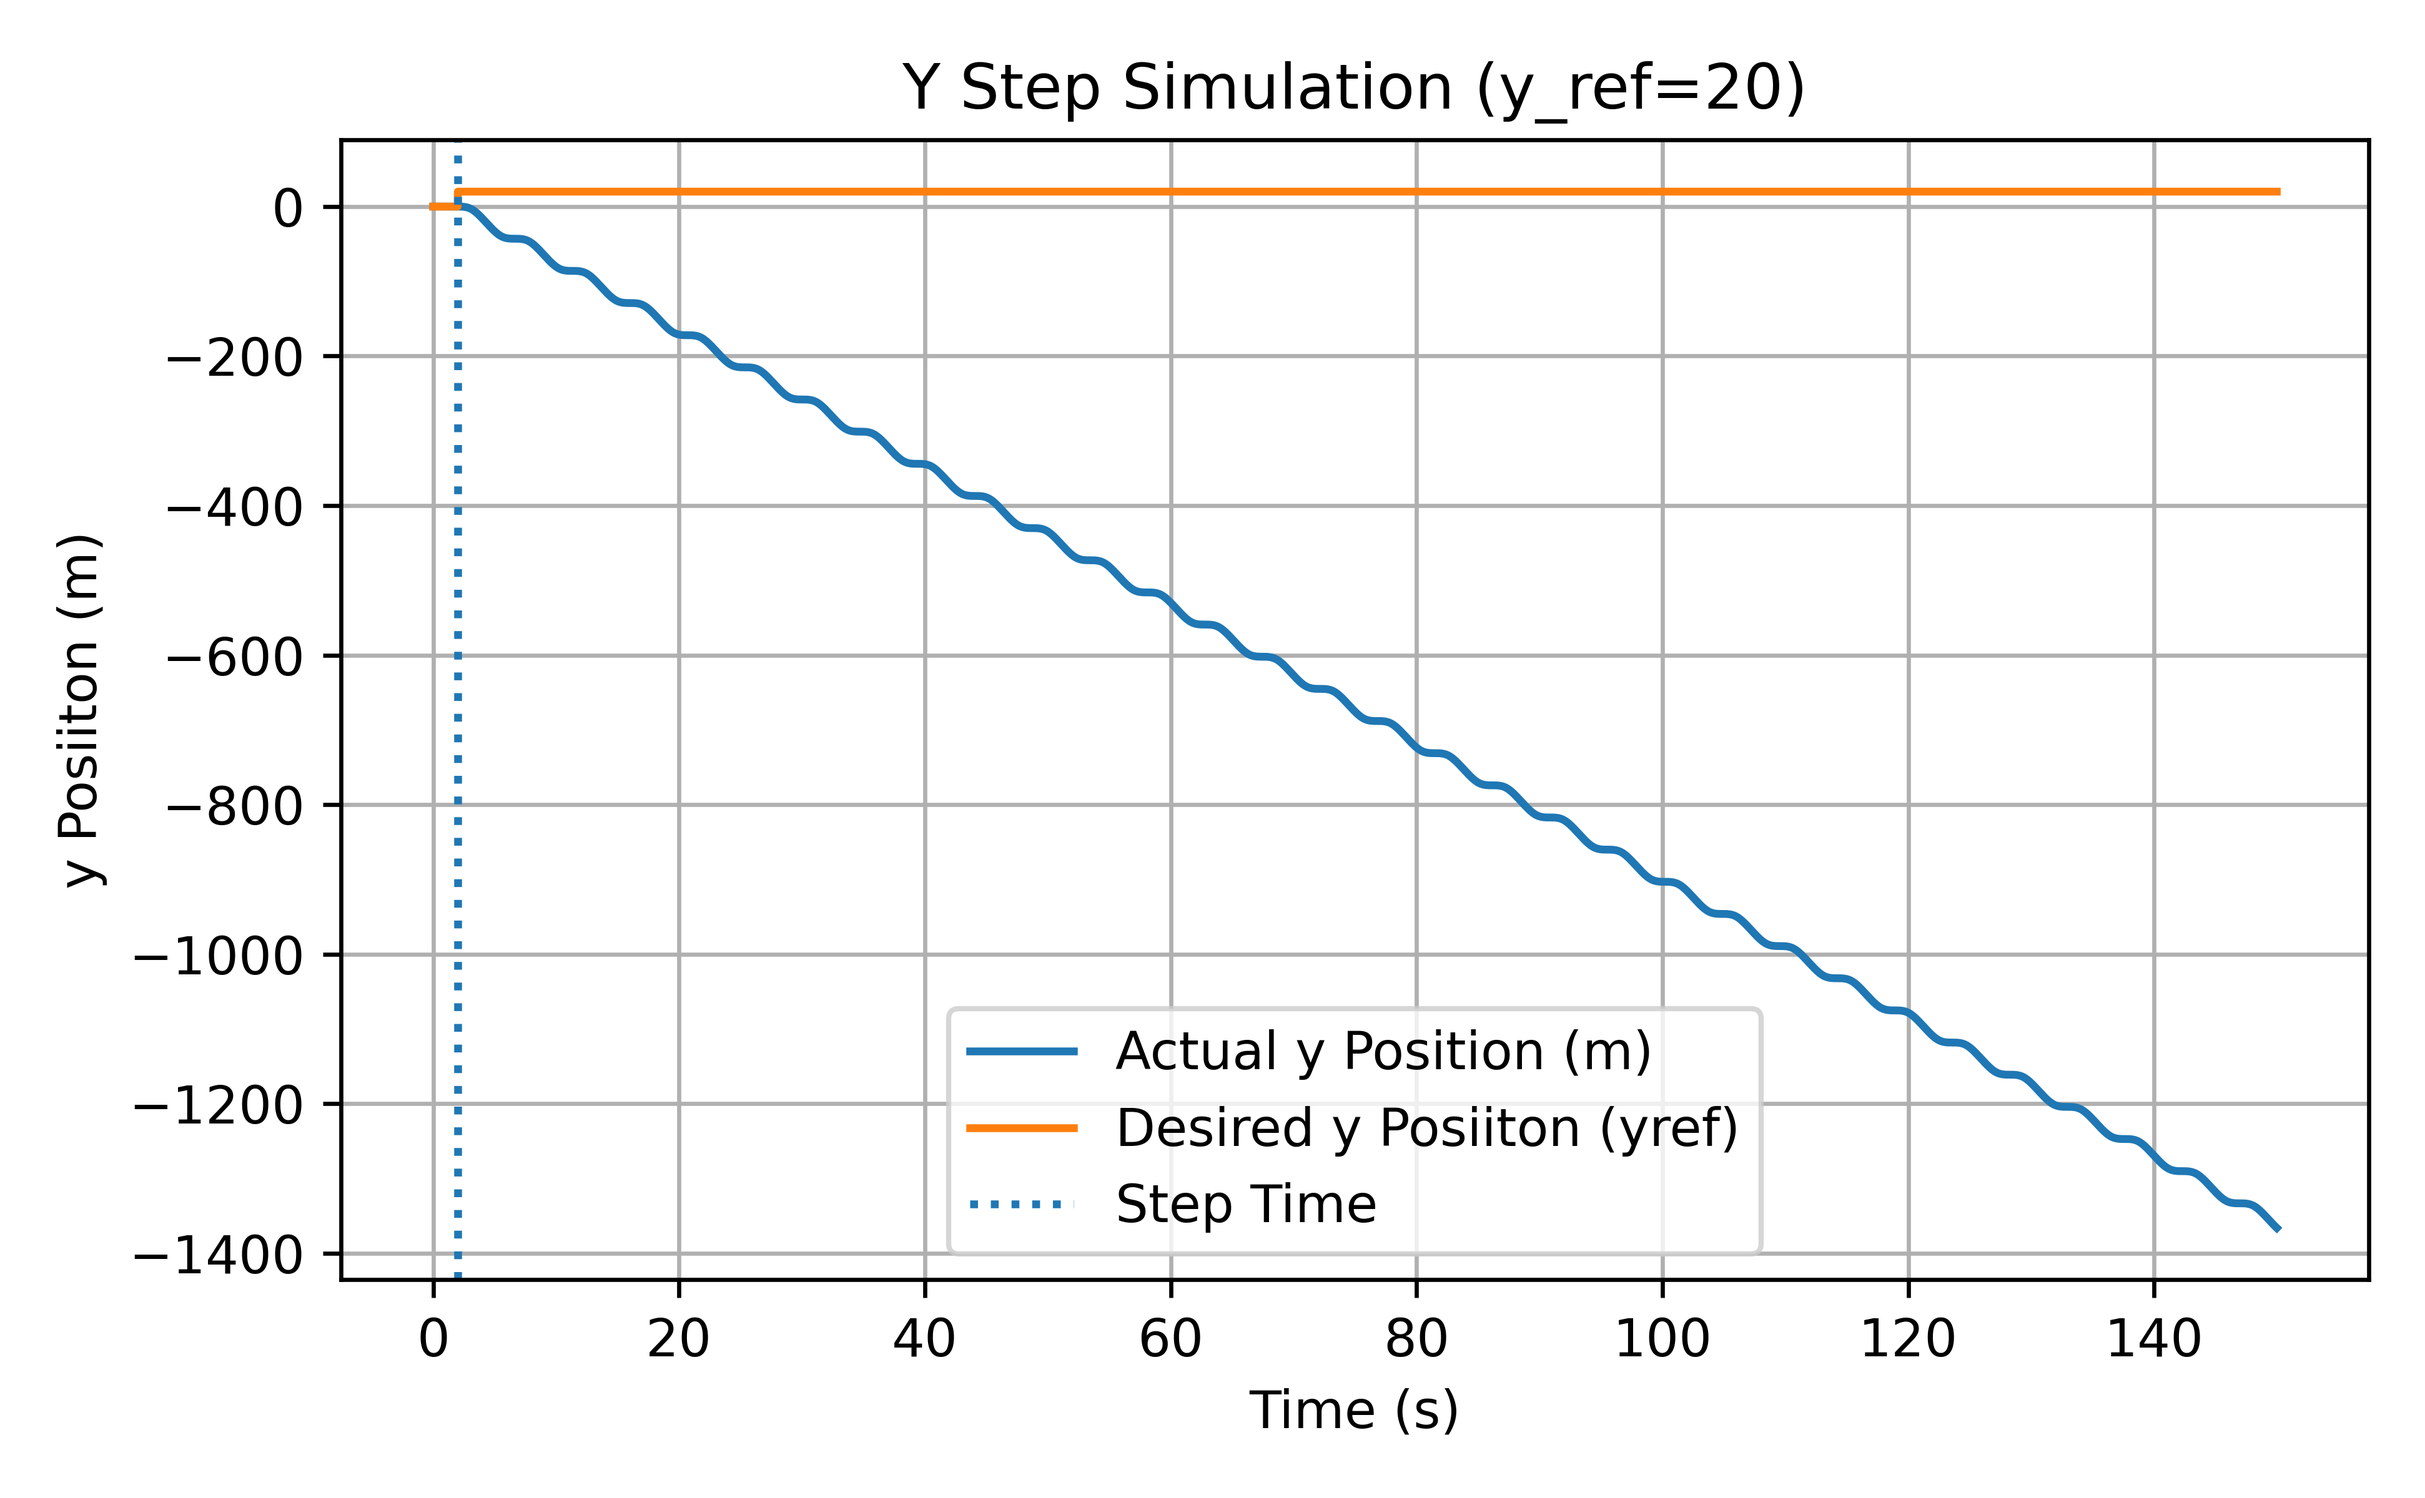
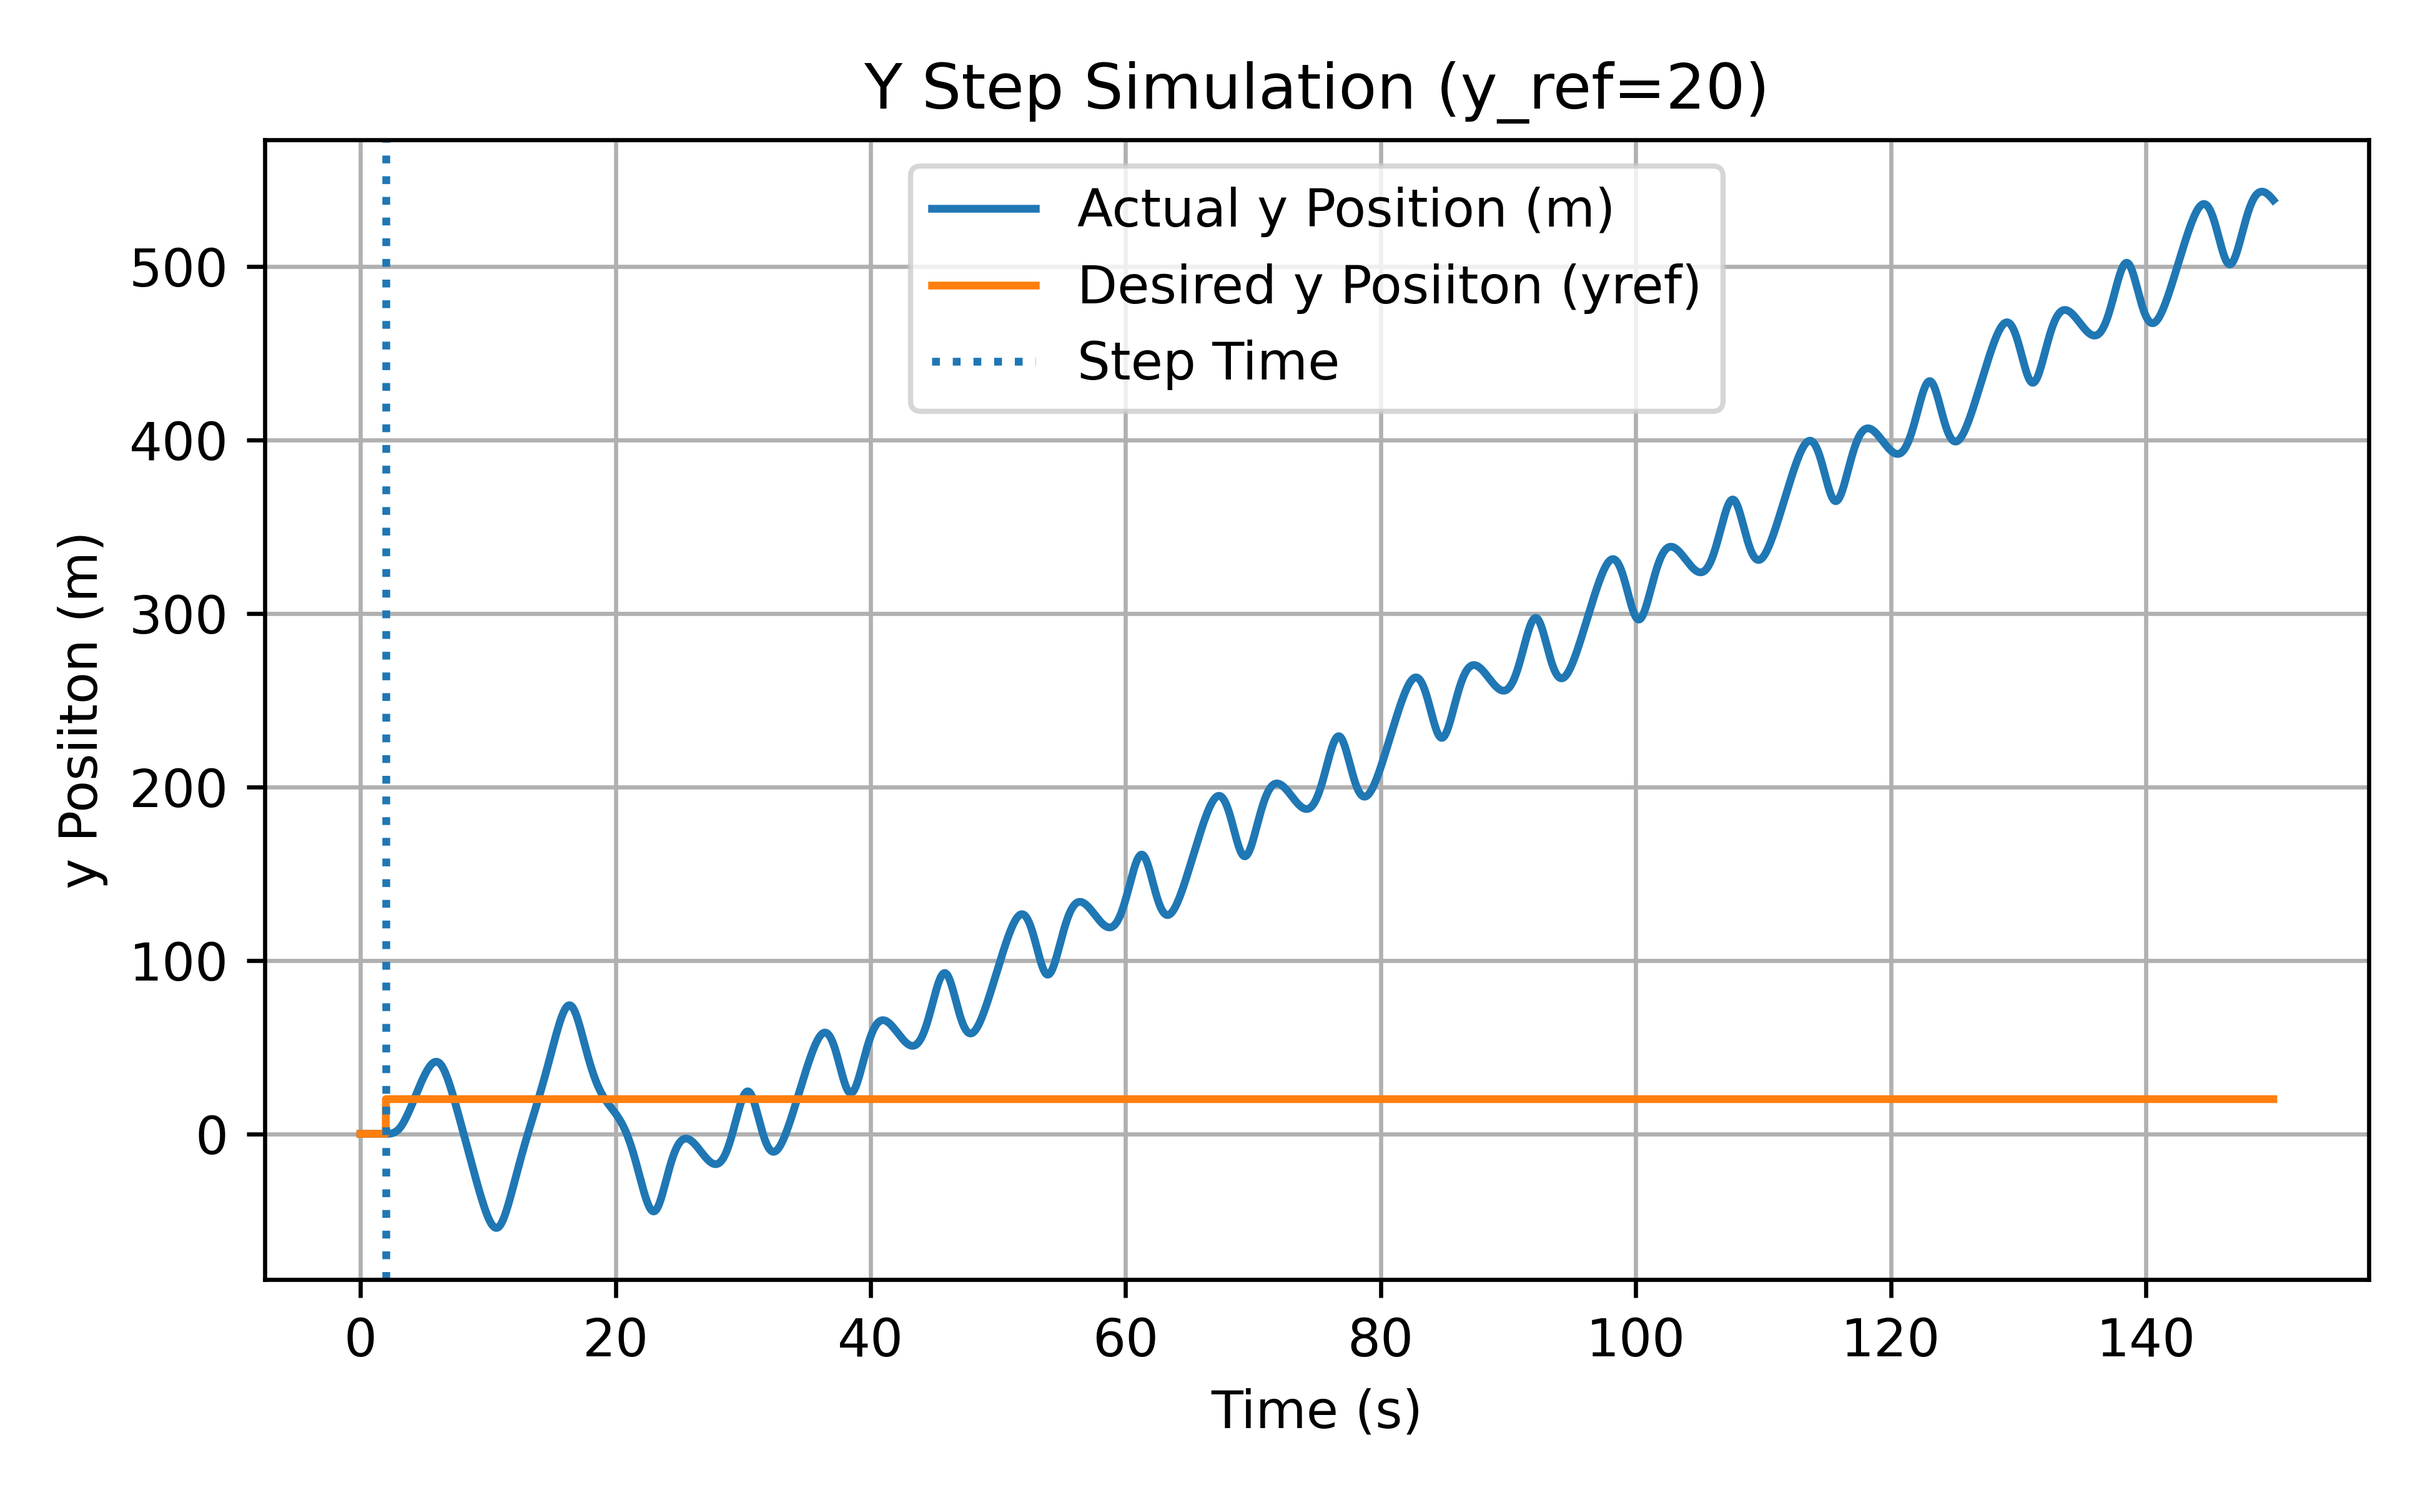
controller work

diff --git a/interactiveSim/controller.py b/interactiveSim/controller.py
@@ -64,7 +64,7 @@ class Precompensator_t3:
 class Y_controller:
     #TODO change Kp inner (tested with higher than 0.1240 or whatever it was)
     def __init__(self, Ts=1/60,
-                Kp_inner=0.5, delta_max=0.05, delta_min=-0.05,
+                Kp_inner=1, delta_max=0.05, delta_min=-0.05,
                 # Kp_outer=0.1440, Ki_outer=.1440, phi_max=np.deg2rad(20), phi_min=-np.deg2rad(20), P_loc = 2): 
                 phi_max=np.deg2rad(20), phi_min=-np.deg2rad(20), P_loc = 2):
                 # Kp_outer=0.2160, Ki_outer=0.3240, phi_max=np.deg2rad(200), phi_min=-np.deg2rad(200)): old
@@ -77,9 +77,9 @@ class Y_controller:
 
         
 
-        kp = 2*P_loc/v0
+        Kp_outer = 2*P_loc/v0
 
-        ki = v0*kp^2/4
+        Ki_outer = v0*Kp_outer**2/4
 
         #TODO none of this is used?
         # a = 0.2
@@ -91,6 +91,7 @@ class Y_controller:
         self.c_outer = PID(Kp=Kp_outer, Ki=Ki_outer, Ts=Ts, umax=phi_max, umin=phi_min, Kaw=1) #TODO change from 0, initialState=0.0) #Y controller Y-> psi_des
 
         self.precomp = Precompensator(Kp=Kp_outer, Ki=Ki_outer, Ts=Ts, initial_setpoint_ref=0) # Precomp
+        # self.precomp = Precompensator_t3(Ts, P_loc/2) # Precomp
 
 
     def update(self, y_des, y, phi):
